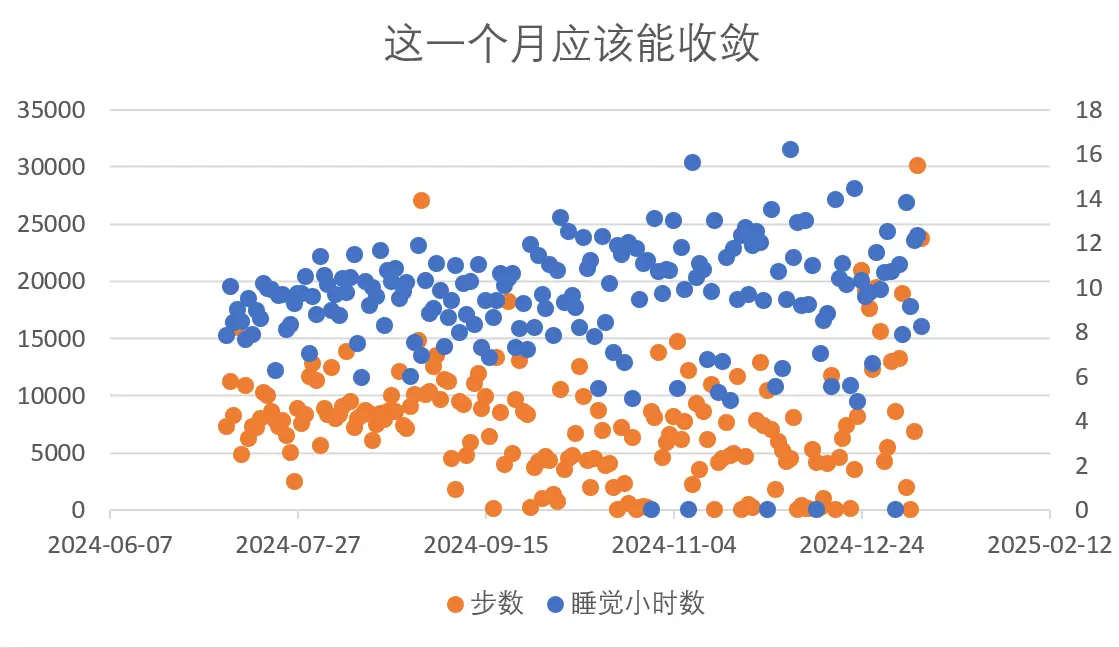
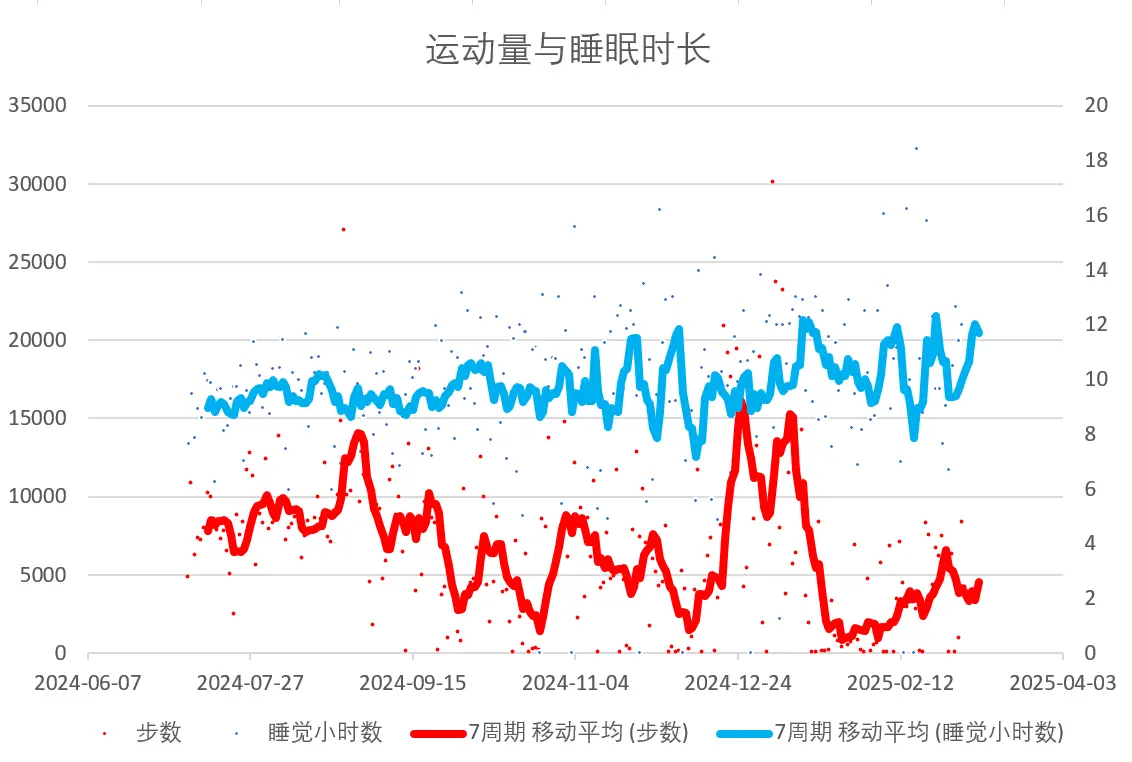
20250308

diff --git a/that.html b/that.html
@@ -12,10 +12,12 @@
 <link href="/blog/css/main.css" rel="stylesheet"/>
 <link crossorigin="anonymous" href="https://unpkg.com/@fortawesome/fontawesome-free@6.6.0/css/all.min.css" integrity="sha256-5eIC48iZUHmSlSUz9XtjRyK2mzQkHScZY1WdMaoz74E=" rel="stylesheet"/>
 <script class="next-config" data-name="main" type="application/json">{"hostname":"hrfis.me","root":"/blog/","images":"/blog/images","scheme":"Gemini","darkmode":false,"version":"8.21.0","exturl":false,"sidebar":{"position":"left","width_expanded":320,"width_dual_column":240,"display":"post","padding":18,"offset":12},"hljswrap":true,"copycode":{"enable":false,"style":null},"fold":{"enable":false,"height":500},"bookmark":{"enable":false,"color":"#222","save":"auto"},"mediumzoom":false,"lazyload":false,"pangu":true,"comments":{"style":"tabs","active":null,"storage":true,"lazyload":false,"nav":null},"stickytabs":false,"motion":{"enable":false,"async":false,"transition":{"menu_item":"fadeInDown","post_block":"fadeIn","post_header":"fadeInDown","post_body":"fadeInDown","coll_header":"fadeInLeft","sidebar":"fadeInUp"}},"i18n":{"placeholder":"搜索...","empty":"没有找到任何搜索结果：${query}","hits_time":"找到 ${hits} 个搜索结果（用时 ${time} 毫秒）","hits":"找到 ${hits} 个搜索结果"}}</script><script src="/blog/js/config.js"></script>
+<meta content="虽然在过去的半年里有几次是一夜没睡倒时差的，但是连续两天不睡觉是绝对不可能的，平均下来看还是不极端的。预计在 3 月结束的时候步数回弹到 5000 以上。" name="description"/>
 <meta content="article" property="og:type"/>
 <meta content="旧事汇总处" property="og:title"/>
 <meta content="https://hrfis.me/blog/that.html" property="og:url"/>
 <meta content="若凡的笔记" property="og:site_name"/>
+<meta content="虽然在过去的半年里有几次是一夜没睡倒时差的，但是连续两天不睡觉是绝对不可能的，平均下来看还是不极端的。预计在 3 月结束的时候步数回弹到 5000 以上。" property="og:description"/>
 <meta content="zh_CN" property="og:locale"/>
 <meta content="https://hrfis.me/blog/images/weekly/weekly.webp" property="og:image"/>
 <meta content="https://hrfis.me/blog/images/weierstrassa=0.5b=13.webp" property="og:image"/>
@@ -24,7 +26,7 @@
 <meta content="https://hrfis.me/blog/images/alpha-point.webp" property="og:image"/>
 <meta content="https://hrfis.me/blog/images/weekly/river.webp" property="og:image"/>
 <meta content="2014-09-03T13:00:00.000Z" property="article:published_time"/>
-<meta content="2025-03-06T14:02:04.390Z" property="article:modified_time"/>
+<meta content="2025-03-08T11:05:29.473Z" property="article:modified_time"/>
 <meta content="Ruofan" property="article:author"/>
 <meta content="summary" name="twitter:card"/>
 <meta content="https://hrfis.me/blog/images/weekly/weekly.webp" name="twitter:image"/>
@@ -140,7 +142,7 @@
 <i class="far fa-calendar-check"></i>
 </span>
 <span class="post-meta-item-text">更新于</span>
-<time datetime="2025-03-06T22:02:04+08:00" itemprop="dateModified" title="修改时间：2025-03-06 22:02:04">2025-03-06</time>
+<time datetime="2025-03-08T19:05:29+08:00" itemprop="dateModified" title="修改时间：2025-03-08 19:05:29">2025-03-08</time>
 </span>
 <span class="post-meta-item">
 <span class="post-meta-item-icon">
@@ -163,12 +165,14 @@
 <i class="far fa-clock"></i>
 </span>
 <span class="post-meta-item-text">阅读时长 ≈</span>
-<span>34 分钟</span>
+<span>35 分钟</span>
 </span>
 </div>
 </div>
 </header>
 <div class="post-body" itemprop="articleBody"><p><img src="/blog/images/weekly/weekly.webp"/></p>
+<p>虽然在过去的半年里有几次是一夜没睡倒时差的，但是连续两天不睡觉是绝对不可能的，平均下来看还是不极端的。预计在
+3 月结束的时候步数回弹到 5000 以上。</p>
 <span id="more"></span>
 <h2 id="我的优点和缺点">我的优点和缺点</h2>
 <p>优点：</p>

diff --git a/css/main.css b/css/main.css
@@ -1240,7 +1240,7 @@ pre code {
     vertical-align: middle;
   }
   .links-of-author a::before {
-    background: #8ee981;
+    background: #8c1dd7;
     display: inline-block;
     margin-right: 3px;
     transform: translateY(-2px);
